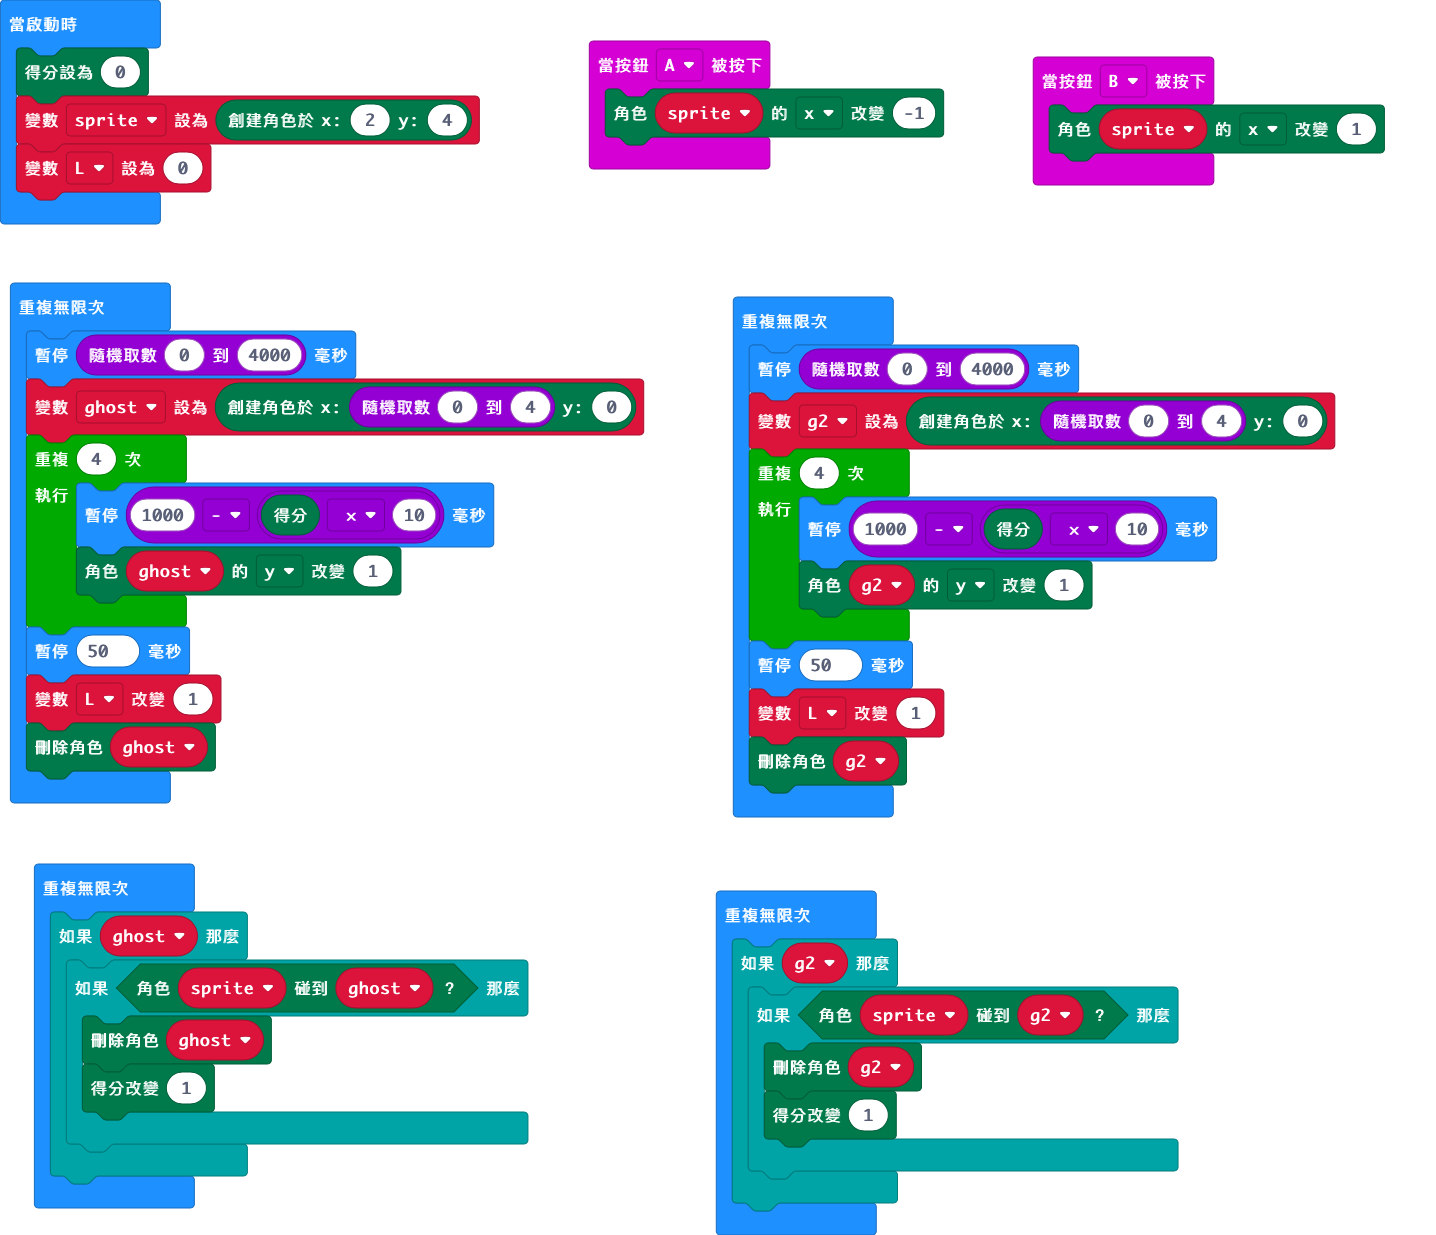
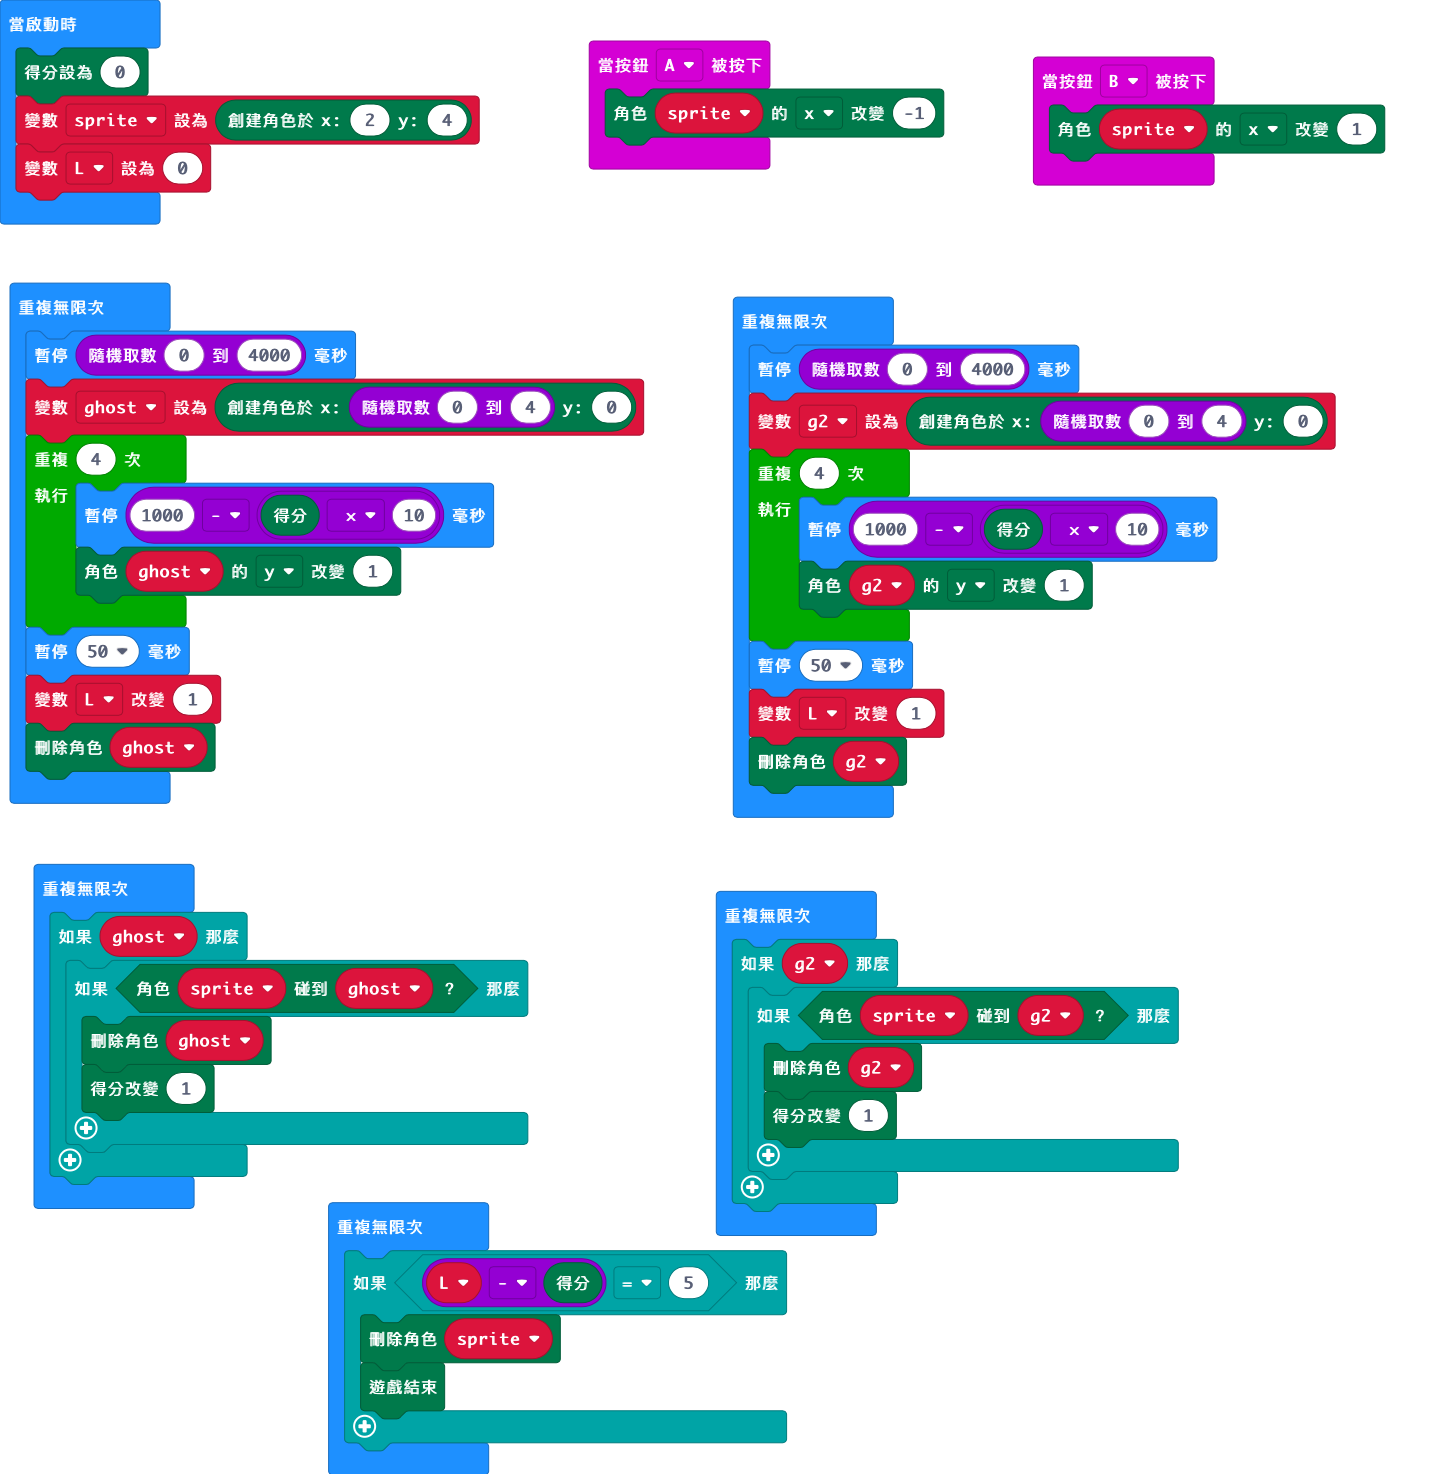
Update main.blocks, main.ts

diff --git a/main.ts b/main.ts
@@ -48,3 +48,9 @@ basic.forever(function () {
         }
     }
 })
+basic.forever(function () {
+    if (L - game.score() == 5) {
+        sprite.delete()
+        game.gameOver()
+    }
+})
